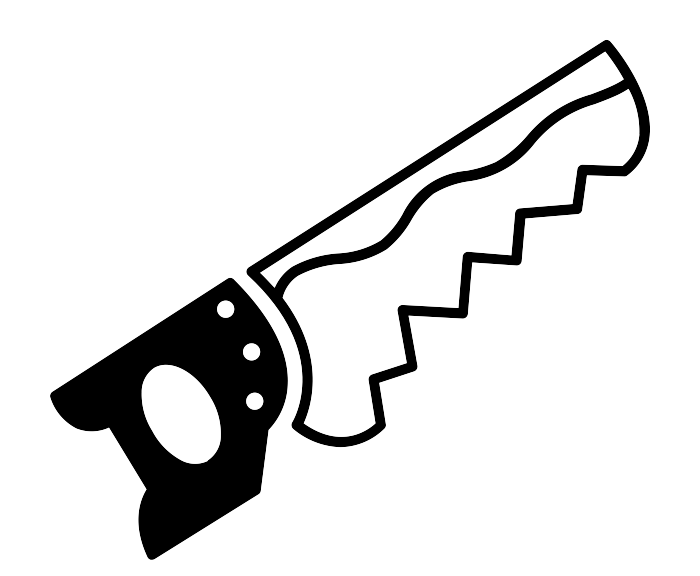
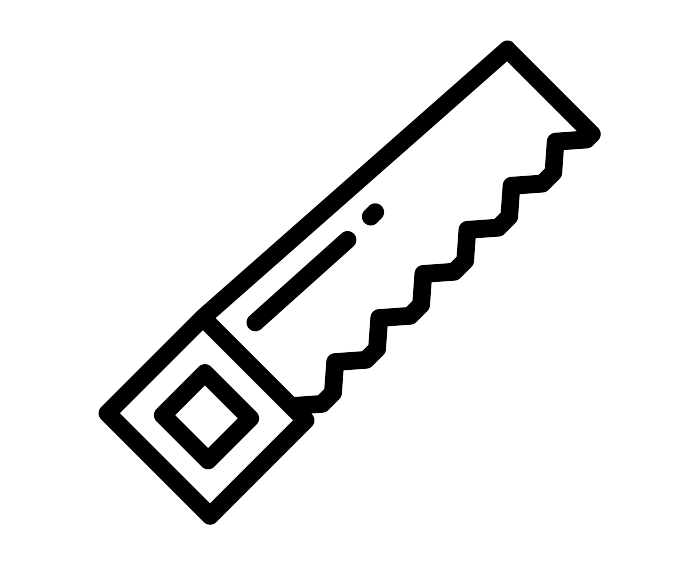
updated Ui

Changed region(s): [[0.06, 0.0596, 0.93, 0.9842]]

diff --git a/app/pages/ServicesPage.jsx b/app/pages/ServicesPage.jsx
@@ -100,24 +100,22 @@ const Explore = ({ services, navigation }) => {
 
 const Essentails = () => {
   return (
-    <View className="">
+    <View>
       <View>
-        <View className={`border border-gray-300 p-3 rounded-xl`}>
-          <View
-            className={`flex-row justify-between items-center border-gray-300  `}
-          >
-            <View className="items-center ">
+        <View className="border border-gray-300 p-3 rounded-xl">
+          <View className="flex-row justify-between items-center border-gray-300">
+            <View className="items-center space-y-1">
               <Image
                 source={images.milk}
-                className="h-[75px] w-[75px] bg-cover"
+                className="h-[73px] w-[75px] bg-cover"
               />
               <CustomText
                 text="Dhoodhwala"
                 semibold
-                className={`text-gray-400 text-xs pt-1`}
+                className="text-gray-400 text-xs"
               />
             </View>
-            <View className="items-center">
+            <View className="items-center space-y-1">
               <Image
                 source={images.internet}
                 className="h-[75px] w-[75px] bg-cover"
@@ -125,10 +123,10 @@ const Essentails = () => {
               <CustomText
                 text="Cable & Internet"
                 semibold
-                className={`text-gray-400 text-xs pt-[5px]`}
+                className="text-gray-400 text-xs"
               />
             </View>
-            <View className="items-center">
+            <View className="items-center space-y-1">
               <Image
                 source={images.electrician}
                 className="h-[75px] w-[75px] bg-cover"
@@ -136,12 +134,12 @@ const Essentails = () => {
               <CustomText
                 text="Electricians"
                 semibold
-                className={`text-gray-400 text-xs pt-1`}
+                className="text-gray-400 text-xs"
               />
             </View>
           </View>
           <View className="flex-row justify-between items-center mt-5">
-            <View className="  items-center">
+            <View className="space-y-1  items-center">
               <Image
                 source={images.jim}
                 className="h-[73px] w-[73px] bg-cover"
@@ -149,10 +147,10 @@ const Essentails = () => {
               <CustomText
                 text="Gyms"
                 semibold
-                className={`text-gray-400 text-xs pt-1`}
+                className="text-gray-400 text-xs"
               />
             </View>
-            <View className="ml-[2px] items-center">
+            <View className="ml-[2px] items-center  space-y-1">
               <Image
                 source={images.painter}
                 className="h-[78px] w-[78px] bg-cover"
@@ -160,18 +158,18 @@ const Essentails = () => {
               <CustomText
                 text="Painters"
                 semibold
-                className={`text-gray-400 text-xs pt-1`}
+                className="text-gray-400 text-xs"
               />
             </View>
-            <View className=" items-center  ">
+            <View className="items-center space-y-1">
               <Image
                 source={images.carpenter}
-                className="h-[73px] w-[75px] bg-cover"
+                className="h-[75px] w-[75px] bg-cover"
               />
               <CustomText
                 text="Carpenters"
                 semibold
-                className={`text-gray-400 text-xs pt-1`}
+                className="text-gray-400 text-xs"
               />
             </View>
           </View>
